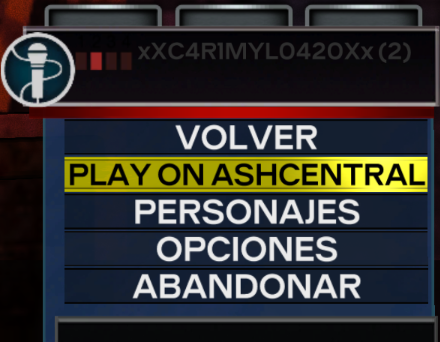
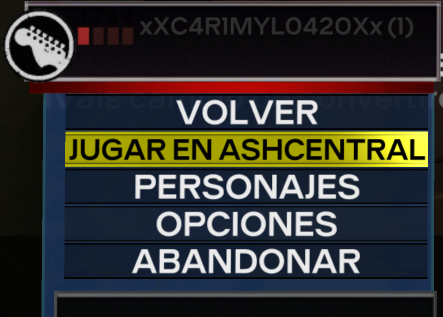
Move AshCentral Room Codes
This part of the guide has done more harm than good. I am tucking it away because there's still use for it. Updated Spanish image with new localization thanks to Lynx.

The images will more than likely be broken so there will likely be a second commit after this one when I notice it's broken.

diff --git a/ashcentral_room_codes_es.md b/ashcentral_room_codes_es.md
@@ -1,0 +1,115 @@
+Versión Vídeo de esta sección subtitulada en Español:  
+[![Una mini-imagen de la versión vídeo de esta sección de la guía.](images/ash/vidthumb.png)](https://youtu.be/pfEUYhzw1ds "Rock Band 3 Multiplayer with Room Codes! [RPCS3] - YouTube")
+
+**Códigos privados solo son útiles para crear sesiones privadas con jugadores en consola. Si quieres invitar alguien que juega en emulador, usa la opción de "Invitar a Amigos" dentro del menú de "Jugar en AshCentral"!**
+
+### Preparaciones para códigos privados:
+
+Para usar el sistema de códigos de sala en AshCentral, **asegúrate que RPCS3 este configurado para conectar a AshCentral**. **Entra al** [[**Discord de Milohax**]](https://rb3dx.neocities.org/discord) y **ve al canal** de **[\[#ashcentral-status\]](https://discord.com/channels/961352072140324924/1153056600030973992)**.
+
+**Copia la información a RPCS3 como dicho en la sección** [**[network]**](#network) (red) **de la guia**.
+
+Cuando hagas eso, [**[ve al sitio de AshCentral, GoCentral.Rocks]**](https://gocentral.rocks/) **para registrar una cuenta**.
+
+[![Captura del sitio web de AshCentral, GoCentral.Rocks, con la opción "Register" de la subsección "Account" resaltada.](images/ash/splash.png)](https://gocentral.rocks/ "GoCentral")
+
+**Registra** (Register) **tu cuenta.**
+
+[![Captura del sitio web de AshCentral, GoCentral.Rocks, en la subpágina de registro, con "Register" resaltado.](images/ash/register.png)](https://gocentral.rocks/register "GoCentral - Register")
+
+Cuando registres tu cuenta, **entra tus datos para entrar a la cuenta**.
+
+[![Captura del sitio web de AshCentral, GoCentral.Rocks, en la subpágina de inicio de sesión, con "Login" resaltado](images/ash/login.png)](https://gocentral.rocks/login "GoCentral - Login")
+
+Te va a regresar a la pagina principal. **Se va ver tu usuario en el rincón derecho de arriba. Mueve el cursor arriba de tu nombre y luego haz clic en "Settings"** (Ajustes).
+
+[![Captura del sitio web de AshCentral, GoCentral.Rocks, con la opción "Settings" de la subsección del nombre de usuario resaltada.](images/ash/splashsettings.png)](https://gocentral.rocks/settings "GoCentral")
+
+**En la pagina de "Settings" vas a ver una opcion llamada "Link Account"** (Connectar Cuenta). **Hazle clic**.
+
+[![Captura del sitio web de AshCentral, GoCentral.Rocks, en la subpágina de información de la cuenta, con "Link Account" resaltado.](images/ash/settings.png)](https://gocentral.rocks/link "GoCentral")
+
+Te va a llevar a una pagina donde vas a entrar el código para conectar tu cuenta con el juego. Deja esta pagina abierta. **Deja a esta pagina abierta**.
+
+[![Captura del sitio web de AshCentral, GoCentral.Rocks, en la subpágina de vinculación de cuentas, con "Link" resaltado.](images/ash/link.png)](https://gocentral.rocks/link "GoCentral")
+
+**Abre Rock Band 3**.
+
+Cuando cargue el menú principal, **entra a las "Opciones"**
+
+![Captura de Rock Band 3, con Opciones resaltadas.](images/ash/optionses.png "Rock Band 3: Options")
+
+**Ve a "Extras".**
+
+![Captura de Rock Band 3, con "Extras" resaltado.](images/ash/extrases.png "Rock Band 3: Extras")
+
+**Ve a "Código de Activación de Cuenta"**.
+
+![Captura de Rock Band 3, con "Código de Activación de Cuenta" resaltado.](images/ash/accountlinkingcodees.png "Rock Band 3: Código de Activación de Cuenta")
+
+**Te va dar un código**.
+
+![Captura de Rock Band 3, con un código para entrar en gocentral.rocks.](images/ash/codees.png "Rock Band 3: Code Here")
+
+Ahora, **copia el código en la pagina, y haz clic a "Link"** (Conectar). **Despues, reinicia Rock Band 3**.
+
+![Captura de pantalla del sitio web de AshCentral, GoCentral.Rocks, en la subpágina de vinculación de cuentas, con "Link" resaltado.](images/ash/link.png "GoCentral - Link Account")
+
+Te va a regresar a la pagina principal. **Se va ver tu usuario en el rincón derecho de arriba. Mueve el cursor arriba de tu nombre y luego haz clic en "Settings"** (Ajustes).
+
+[![Captura del sitio web de AshCentral, GoCentral.Rocks, con la opción "Settings" de la subsección del nombre de usuario resaltada.](images/ash/splashsettings.png)](https://gocentral.rocks/settings "GoCentral")
+
+Si hiciste todo bien, **la pagina de va enseñar el usuario de tu cuenta RPCN, que estas usando RPCS3, Band Name (nombre de banda), y fans.**
+
+![Captura del sitio web de AshCentral, GoCentral.Rocks, en la subpágina de información de la cuenta, con nuevos detalles.](images/ash/linked.png "GoCentral - Settings")
+
+Si no vez nada nuevo, no entraste el código correcto. Las letras de Rock Band 3 pueden ser un poco difícil para leer así que aveces se necesita tratar otra vez. 
+
+Ahora, vamos a ver como crear o entrar a sesiones.
+
+**Abre Rock Band 3** (si no esta abierto).
+
+**En la pagina principal de AshCentral, haz clic a "Join Game"** (Entrar a juego).
+
+[![Captura de pantalla del sitio web de AshCentral, GoCentral.Rocks, con la opción "Join Game" resaltada.](images/ash/joingame.png)](https://gocentral.rocks/sessions "GoCentral")
+
+**Antes de crear o entrar a una sesión, necesitas tienes que presionar en "Play on AshCentral" en el menu de Rock Band 3.**
+
+![Captura de pantalla de Rock Band 3, con "Play on AshCentral" resaltado.](images/ash/ashcentrales.png "Rock Band 3: Play on AshCentral")
+
+
+### Creando Sesiones:
+
+**Haz click en "Host Session"** en GoCentral.Rocks.
+[![Captura de pantalla del sitio web de AshCentral, GoCentral.Rocks, en la subpágina "Join Game", con "Host Session" resaltado..](images/ash/hostsession.png)](https://gocentral.rocks/sessions/ "GoCentral - Host Session")
+
+Te dará un código. **Pasa este código a todos los que quieres invitar.**
+
+[![Captura de pantalla del sitio web de AshCentral, GoCentral.Rocks, en la subpágina "Host Session", con un código de sesión y una reloj contando para abajo.](images/ash/hostroom.png)](https://gocentral.rocks/sessions/host "GoCentral - Host Session")
+
+Ahora, **en Rock Band 3, entra a Jugar, Partida Rápida, y "Find AshCentral Players"** (Encontrar jugadores en AshCentral).
+
+![Captura de pantalla de Rock Band 3, con "Find AshCentral Players" resaltado.](images/ash/findashcentralplayerses.png "Rock Band 3: Find AshCentral Players")
+
+Ahora debes de ver que se conecten los que fueron invitados.
+
+![Captura de pantalla de Rock Band 3, en un cuarto en linea.](images/ash/hostlobby.png "Rock Band 3: Find AshCentral Players")
+
+### Entrando a Sesiones:
+
+**Haz clic en "Join Session"** (Unirse a sesión) en GoCentral.Rocks.
+[![Captura de pantalla del sitio web de AshCentral, GoCentral.Rocks, en la subpágina "Join Game", con "Join Session" resaltado.](images/ash/joinsession.png)](https://gocentral.rocks/sessions/ "GoCentral - Join Session")
+
+**Entra el codigo que te mandaron**.
+
+[![Captura de pantalla del sitio web de AshCentral, GoCentral.Rocks, en la subpágina "Join Session", pidiendo al usuario un código de sesión.](images/ash/joinroom.png)](https://gocentral.rocks/sessions/join "GoCentral - Join Session")
+
+Ahora, **en Rock Band 3, entra a Jugar, Partida Rápida, y "Find AshCentral Players"** (Encontrar jugadores en AshCentral).
+
+![Captura de pantalla de Rock Band 3, con "Find AshCentral Players" resaltado.](images/ash/findashcentralplayerses.png "Rock Band 3: Find AshCentral Players")
+
+Te vas a conectar a la session donde fuiste invitado.
+
+![Captura de pantalla de Rock Band 3, en un cuarto en linea.](images/ash/joinlobby.png "Rock Band 3: Finding AshCentral Players")
+
+Acuérdate, necesitas que presionar "Play on AshCentral" en Rock Band 3 antes de que te unas o creas una sesiona en GoCentral.Rocks.

diff --git a/ashcentral_room_codes.md b/ashcentral_room_codes.md
@@ -1,0 +1,113 @@
+Video Version:  
+[![A thumbnail of the video version of this section of the tutorial.](images/ash/vidthumb.png)](https://youtu.be/pfEUYhzw1ds "Rock Band 3 Multiplayer with Room Codes! [RPCS3] - YouTube")
+
+**Room Codes are only useful for setting up private lobbies with console players. If you're inviting someone who's on an emulator, use the "Invite Friend" option in the "Play on AshCentral" menu!**
+
+### Setting Up AshCentral:
+
+To use the room code system on AshCentral, **make sure RPCS3 is set to connect to AshCentral**. **Join the** [[**Milohax Discord server**]](https://rb3dx.neocities.org/discord) and **go to** the **[\[#ashcentral-status\]](https://discord.com/channels/961352072140324924/1153056600030973992)** channel.
+
+**Copy the information into RPCS3** like mentioned in the [**[network]**](#network) section of the guide.
+
+Once you've done that, **go to** [**[AshCentral's website]**](https://gocentral.rocks/) **to register an account**.
+
+[![A screenshot of AshCentral's website, GoCentral.Rocks, with the "Register" option from the "Account" subsection being moused over.](images/ash/splash.png)](https://gocentral.rocks/ "GoCentral")
+
+**Register your account.**
+
+[![A screenshot of AshCentral's website, GoCentral.Rocks, in the register subpage, with "Register" being moused over.](images/ash/register.png)](https://gocentral.rocks/register "GoCentral - Register")
+
+**When you register your account**, you'll be prompted to **log in**. Do so.
+
+[![A screenshot of AshCentral's website, GoCentral.Rocks, in the login subpage, with "Login" being moused over.](images/ash/login.png)](https://gocentral.rocks/login "GoCentral - Login")
+
+You'll be taken to back to the front page. **Under your account's name, you should see "Settings"**. Click on that.
+
+[![A screenshot of AshCentral's website, GoCentral.Rocks, with the "Settings" option from the user name's subsection being moused over.](images/ash/splashsettings.png)](https://gocentral.rocks/settings "GoCentral")
+
+**In the settings page, you'll see a "Link Account" option. Click on that.**
+
+[![A screenshot of AshCentral's website, GoCentral.Rocks, in the account information subpage, with "Link Account" being moused over](images/ash/settings.png)](https://gocentral.rocks/link "GoCentral")
+
+This will take you to a page to type in an account linking code. **Leave this page open.**
+
+[![A screenshot of AshCentral's website, GoCentral.Rocks, in the account linking subpage, with "Link" being moused over.](images/ash/link.png)](https://gocentral.rocks/link "GoCentral")
+
+**Start up Rock Band 3**.
+
+Once it launches, **go the main options menu.**
+
+![A screenshot of Rock Band 3, with Options being highlighted.](images/ash/options.png "Rock Band 3: Options")
+
+**Go to the extras menu.**
+
+![A screenshot of Rock Band 3, with extras being highlighted.](images/ash/extras.png "Rock Band 3: Extras")
+
+**Go to "Account-linking code."**
+
+![A screenshot of Rock Band 3, with "Account-Linking Code" being highlighted.](images/ash/accountlinkingcode.png "Rock Band 3: Account-Linking Code")
+
+**You should see a code now.**
+
+![A screenshot of Rock Band 3, telling the user to copy the code at the bottom into AshCentral.](images/ash/code.png "Rock Band 3: Code Here")
+
+Now, **copy the code into Gocentral.Rocks, then click "Link." After that, restart Rock Band 3.**
+
+![A screenshot of AshCentral's website, GoCentral.Rocks, in the account linking subpage, with "Link" being moused over.](images/ash/link.png "GoCentral - Link Account")
+
+You'll be taken back to the front page. **Under your account's name, you should see "Settings"**. Click on that.
+
+[![A screenshot of AshCentral's website, GoCentral.Rocks, with the "Settings" option from the user name's subsection being moused over.](images/ash/splashsettings.png)](https://gocentral.rocks/settings "GoCentral")
+
+If you did everything correctly, **you should see more information for your account, including your account name, console, band name, and fans**.
+
+![A screenshot of AshCentral's website, GoCentral.Rocks, in the account information subpage, showing new details under Rock Band 3 account.](images/ash/linked.png "GoCentral - Settings")
+
+If the website didn't find anything, you may have mistyped the code. Rock Band 3's font may be a bit hard to read so you may have to try again.
+
+Now, let's go over hosting or joining sessions.
+
+**First, launch Rock Band 3** (if it's not already open).
+
+**On the front page of AshCentral, click on "Join Game"**.
+
+[![A screenshot of AshCentral's website, GoCentral.Rocks, with the "Join Game" being moused over.](images/ash/joingame.png)](https://gocentral.rocks/sessions "GoCentral")
+
+**Before clicking either "Host Session" or "Join Session", make sure to press "Play on AshCentral" in Rock Band 3's options menu.**
+
+![A screenshot of Rock Band 3, with "Play on AshCentral" being highlighted.](images/ash/ashcentral.png "Rock Band 3: Play on AshCentral")
+
+
+### Hosting Sessions:
+
+**Click on "Host Session"** on GoCentral.Rocks.
+[![A screenshot of AshCentral's website, GoCentral.Rocks, on the "Join Game" subpage, with "Host Session" being moused over.](images/ash/hostsession.png)](https://gocentral.rocks/sessions/ "GoCentral - Host Session")
+
+You will get a code. **Send this code to those you want to join your session.**
+
+[![A screenshot of AshCentral's website, GoCentral.Rocks, on the "Host Session" subpage, with a session code and a countdown displayed.](images/ash/hostroom.png)](https://gocentral.rocks/sessions/host "GoCentral - Host Session")
+
+Now, **in Rock Band 3, go to "Play Now", then "Quickplay", then "Find AshCentral Players"**
+
+![A screenshot of Rock Band 3, with "Find AshCentral Players" highlighted.](images/ash/findashcentralplayers.png "Rock Band 3: Find AshCentral Players")
+
+You should see invited players connected to your lobby.
+![A screenshot of Rock Band 3, in an online lobby.](images/ash/hostlobby.png "Rock Band 3: Find AshCentral Players")
+
+### Joining Sessions:
+
+**Click on "Join Session"** on GoCentral.Rocks.
+[![A screenshot of AshCentral's website, GoCentral.Rocks, on the "Join Game" subpage, with "Join Session" being moused over.](images/ash/joinsession.png)](https://gocentral.rocks/sessions/ "GoCentral - Join Session")
+
+**Enter the session code you were sent.**
+
+[![A screenshot of AshCentral's website, GoCentral.Rocks, on the "Join Session" subpage, asking the user for a session code.](images/ash/joinroom.png)](https://gocentral.rocks/sessions/join "GoCentral - Join Session")
+
+Now, **in Rock Band 3, go to "Play Now", then "Quickplay", then "Find AshCentral Players"**
+
+![A screenshot of Rock Band 3, with "Find AshCentral Players" highlighted.](images/ash/findashcentralplayers.png "Rock Band 3: Find AshCentral Players")
+
+You should connect to the lobby you were invited to.
+![A screenshot of Rock Band 3, in an online lobby.](images/ash/joinlobby.png "Rock Band 3: Finding AshCentral Players")
+
+Again, **remember to press "Play on AshCentral" in Rock Band 3 before joining or hosting a session on GoCentral.Rocks.**
